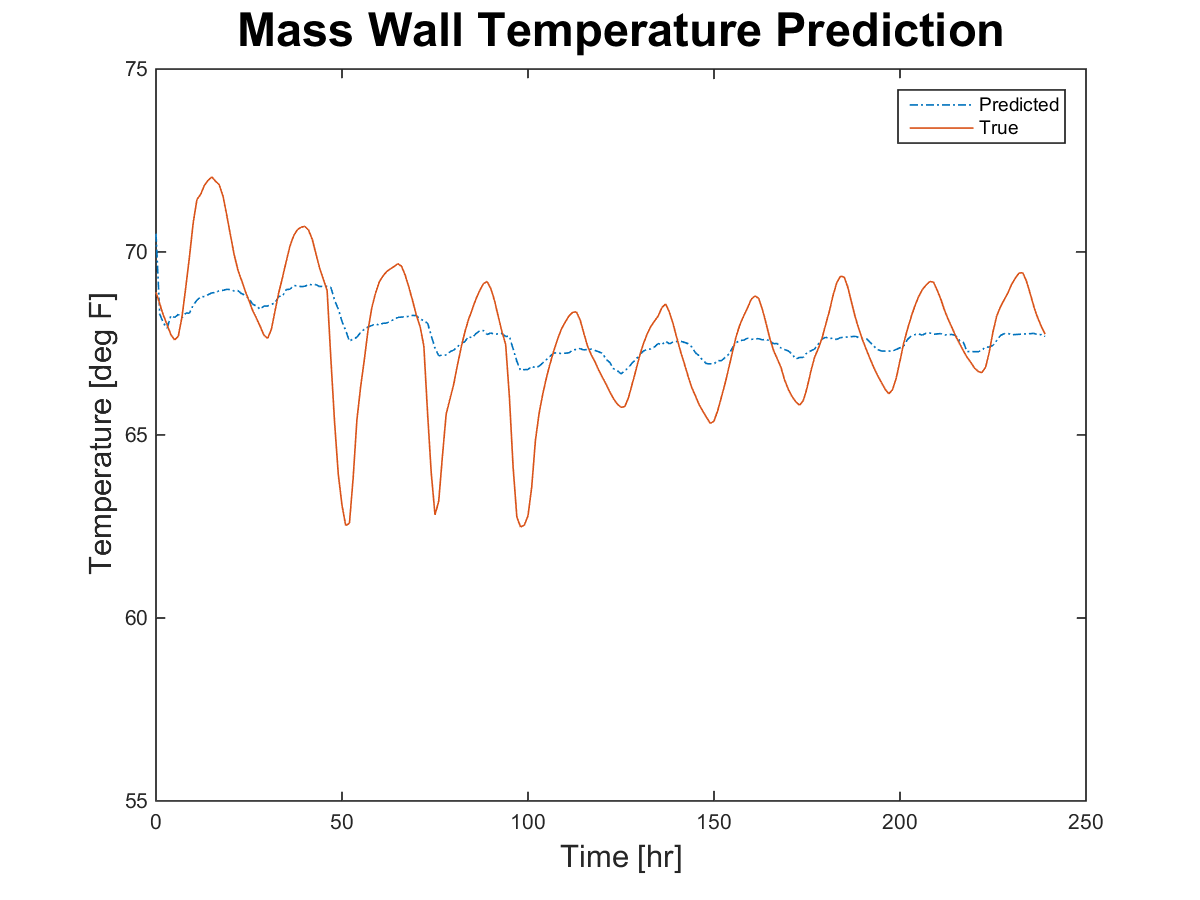
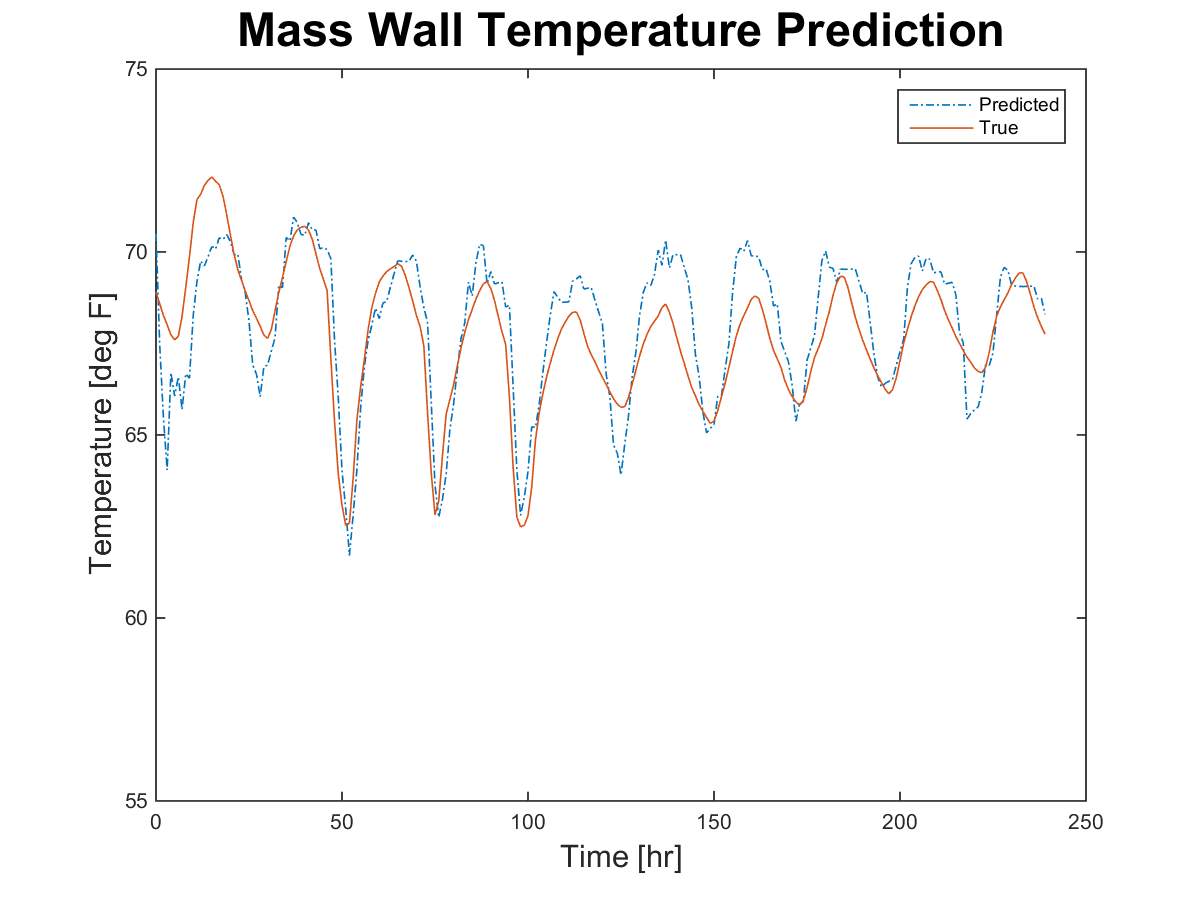
Implementation of Non_linear params ID

diff --git a/Non_linear_params_id.m b/Non_linear_params_id.m
@@ -1,0 +1,184 @@
+%% CE 295 - Energy Systems and Control
+%   Term Project
+%   Parameter Identification
+
+% Param_Identification.m
+
+clc; clear; close all;
+fs = 15;    % Font Size for plots
+
+%% Load Data
+data = xlsread('VAV_data.xlsx');
+
+%Subset data
+days = 10;
+hours = days*24;
+
+data = data(1:hours,:);
+
+t = data(:,1);              %time vector [hr]
+t = (0:(length(t)-1))';     %resample vector to start at 0
+
+air_out = data(:,2);        %outdoor air temperature, T_A [deg F]
+air_supply = data(:,3);     %supply temperature, T_V [deg F]
+air_in = data(:,4);         %indoor air temperature, T_Z [deg F]
+mass_wall = data(:,5);      %wall mass temperature, T_W [deg F]
+mass_floor = data(:,6);     %floor mass temperature, T_F [deg F]
+air_flow = data(:,7);       %air flow, V [CFM]
+
+s = air_flow > 400;
+
+figure(1)
+%Plot outdoor and indoor air
+plot(t,air_out,t,air_in);
+ylim([50 80])
+legend('Outdoor', 'Indoor')
+hold on
+% Plot airflow vs time
+plot(t,air_flow*.2,'k');
+hold off
+
+%% Visualize inital estimates
+load('./params_estimate.mat')
+
+% Simulate inital parameters
+
+Ahat = [(-Theta_Hat(1)-Theta_Hat(2)-Theta_Hat(3)), Theta_Hat(2), Theta_Hat(3);...
+        Theta_Hat(6), -Theta_Hat(5)-Theta_Hat(6), 0;...
+        Theta_Hat(7), 0, -Theta_Hat(7)];
+    
+Bhat = [Theta_Hat(1), Theta_Hat(4);...
+        Theta_Hat(5), 0;...
+        0, 0];
+    
+% Output states only (dummy variables, not used later)
+C_dummy = eye(3);
+D_dummy = 0;
+
+% State space model
+sys_hat = ss(Ahat, Bhat, C_dummy, D_dummy);
+
+% Simulation of initial estimates of parameters
+
+% Input vector from validation data set
+U_hat = [air_out, s];
+
+% Initial conditions [deg F]
+That0 = [70; 70.5; 67];
+
+That0 = [55; 55; 55];
+
+% Simulate
+[~,~, That] = lsim(sys_hat, U_hat, t, That0);
+
+% Plot initial parameter estimations
+
+% Plot predicted and actual indoor temperature from validation data set
+figure(1); clf;
+plot(t, That(:,1), '-.', t, air_in)
+title('Indoor Temperature Prediction','FontSize',fs*1.5)
+ylim([55 75]);
+ylabel('Temperature [deg F]','FontSize',fs)
+xlabel('Time [hr]','FontSize',fs)
+legend('Predicted','True')
+
+figure(2); clf;
+plot(t, That(:,2), '-.', t, mass_wall)
+title('Mass Wall Temperature Prediction','FontSize',fs*1.5)
+ylim([55 75]);
+ylabel('Temperature [deg F]','FontSize',fs)
+xlabel('Time [hr]','FontSize',fs)
+legend('Predicted','True')
+
+figure(3); clf;
+plot(t, That(:,3), '-.', t, mass_floor)
+title('Mass Floor Temperature Prediction','FontSize',fs*1.5)
+ylim([55 75]);
+ylabel('Temperature [deg F]','FontSize',fs)
+xlabel('Time [hr]','FontSize',fs)
+legend('Predicted','True')
+
+%% Parameter Estimation using lsqnonlin
+
+%% Estimate parameters and variances
+optim_options = optimset('Display', 'iter',...
+'TolFun', 1e-10,... %default: 1e-4
+'TolX', 1e-6,... %default: 1e-4
+'MaxFunEvals', 10000,... % default: 100 * num of variables
+'MaxIter', 100000,... % default: 400
+'Algorithm','levenberg-marquardt'); %default: 'off'
+%optim_options = [];
+
+[p,resnorm,residual,exitflag,OUTPUT,LAMBDA,Jacobian] = lsqnonlin(@mle_error, Theta_Hat, [],[],optim_options,...
+    t, U_hat, That0, air_in, mass_wall, mass_floor);
+disp(' ')
+p
+
+save('p_values.mat','p');
+
+Theta_Hat = p;
+% Simulate inital parameters
+
+Ahat = [(-Theta_Hat(1)-Theta_Hat(2)-Theta_Hat(3)), Theta_Hat(2), Theta_Hat(3);...
+        Theta_Hat(6), -Theta_Hat(5)-Theta_Hat(6), 0;...
+        Theta_Hat(7), 0, -Theta_Hat(7)];
+    
+Bhat = [Theta_Hat(1), Theta_Hat(4);...
+        Theta_Hat(5), 0;...
+        0, 0];
+    
+% Output states only (dummy variables, not used later)
+C_dummy = eye(3);
+D_dummy = 0;
+
+% State space model
+sys_hat = ss(Ahat, Bhat, C_dummy, D_dummy);
+
+% Simulation of initial estimates of parameters
+
+% Input vector from validation data set
+U_hat = [air_out, s];
+
+% Initial conditions [deg F]
+That0 = [70; 70.5; 67];
+
+%That0 = [55; 55; 55];
+
+% Simulate
+[~,~, That] = lsim(sys_hat, U_hat, t, That0);
+
+% Plot initial parameter estimations
+
+% Plot predicted and actual indoor temperature from validation data set
+fig1 = figure(1); clf;
+plot(t, That(:,1), '-.', t, air_in)
+title('Indoor Temperature Prediction','FontSize',fs*1.5)
+ylim([55 75]);
+ylabel('Temperature [deg F]','FontSize',fs)
+xlabel('Time [hr]','FontSize',fs)
+legend('Predicted','True')
+
+print(fig1,'.\nonlin_estimate_air_in.png','-dpng');
+
+fig2 = figure(2); clf;
+plot(t, That(:,2), '-.', t, mass_wall)
+title('Mass Wall Temperature Prediction','FontSize',fs*1.5)
+ylim([55 75]);
+ylabel('Temperature [deg F]','FontSize',fs)
+xlabel('Time [hr]','FontSize',fs)
+legend('Predicted','True')
+
+% Save plot 
+print(fig2,'.\nonlin_estimate_mass_wall.png','-dpng');
+
+fig3 = figure(3); clf;
+plot(t, That(:,3), '-.', t, mass_floor)
+title('Mass Floor Temperature Prediction','FontSize',fs*1.5)
+ylim([55 75]);
+ylabel('Temperature [deg F]','FontSize',fs)
+xlabel('Time [hr]','FontSize',fs)
+legend('Predicted','True')
+
+% Save plot 
+print(fig3,'.\nonlin_estimate_mass_floor.png','-dpng');
+

diff --git a/build_sim.m b/build_sim.m
@@ -1,0 +1,22 @@
+function [That,t] = build_sim(t, U_hat, Theta_Hat, That0)
+% This function will simulation the results of the system
+
+Ahat = [(-Theta_Hat(1)-Theta_Hat(2)-Theta_Hat(3)), Theta_Hat(2), Theta_Hat(3);...
+        Theta_Hat(6), -Theta_Hat(5)-Theta_Hat(6), 0;...
+        Theta_Hat(7), 0, -Theta_Hat(7)];
+    
+Bhat = [Theta_Hat(1), Theta_Hat(4);...
+        Theta_Hat(5), 0;...
+        0, 0];
+    
+% Output states only (dummy variables, not used later)
+C_dummy = eye(3);
+D_dummy = 0;
+
+sys_hat = ss(Ahat, Bhat, C_dummy, D_dummy);
+    
+% Simulate
+[That,t] = lsim(sys_hat, U_hat, t, That0);
+
+end
+

diff --git a/mle_error.m b/mle_error.m
@@ -1,0 +1,15 @@
+function xi = mle_error(Theta_Hat,t, U_hat, That0,air_in, mass_wall, mass_floor)
+% This function will calculate the error between measured and simulation
+
+% Simulate building system
+[That,t] = build_sim(t, U_hat, Theta_Hat, That0);
+
+% Select parameter to optimize
+y_1 = That(:,1);
+y_2 = That(:,2);
+y_3 = That(:,3);
+
+xi = (air_in(:)-y_1(:) + mass_wall(:)-y_2(:) + mass_floor(:)-y_3(:)).^2;
+
+end
+
